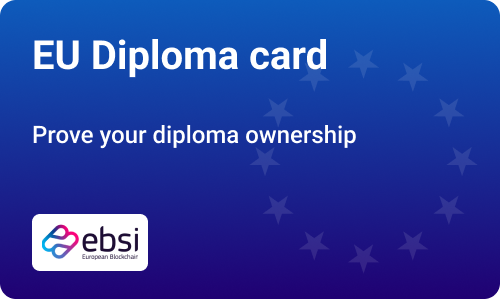
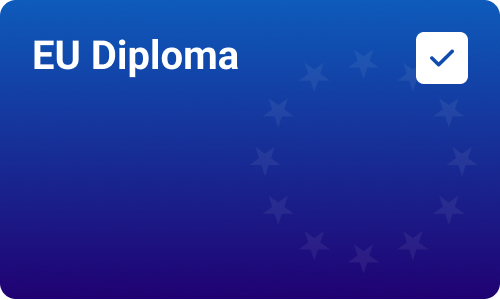
EBSI diploma card model and UI update #1349

diff --git a/lib/dashboard/home/tab_bar/credentials/models/eu_diploma_card/eu_diploma_card_model.dart b/lib/dashboard/home/tab_bar/credentials/models/eu_diploma_card/eu_diploma_card_model.dart
@@ -7,7 +7,15 @@ part 'eu_diploma_card_model.g.dart';
 @JsonSerializable(explicitToJson: true)
 class EUDiplomaCardModel extends CredentialSubjectModel {
   EUDiplomaCardModel({
-    this.expires,
+    this.expires = '',
+    this.awardingOpportunity,
+    this.dateOfBirth = '',
+    this.familyName = '',
+    this.givenNames = '',
+    this.gradingScheme,
+    this.identifier = '',
+    this.learningAchievement,
+    this.learningSpecification,
     super.id,
     super.type,
     super.issuedBy,
@@ -19,9 +27,120 @@ class EUDiplomaCardModel extends CredentialSubjectModel {
   factory EUDiplomaCardModel.fromJson(Map<String, dynamic> json) =>
       _$EUDiplomaCardModelFromJson(json);
 
-  @JsonKey(defaultValue: '')
-  final String? expires;
+  final String expires;
+  final AwardingOpportunity? awardingOpportunity;
+  final String dateOfBirth;
+  final String familyName;
+  final String givenNames;
+  final GradingScheme? gradingScheme;
+  final String identifier;
+  final LearningAchievement? learningAchievement;
+  final LearningSpecification? learningSpecification;
 
   @override
   Map<String, dynamic> toJson() => _$EUDiplomaCardModelToJson(this);
+}
+
+@JsonSerializable(explicitToJson: true)
+class AwardingOpportunity {
+  AwardingOpportunity({
+    this.awardingBody,
+    this.endedAtTime = '',
+    this.id = '',
+    this.identifier = '',
+    this.location = '',
+    this.startedAtTime = '',
+  });
+
+  factory AwardingOpportunity.fromJson(Map<String, dynamic> json) =>
+      _$AwardingOpportunityFromJson(json);
+
+  final AwardingBody? awardingBody;
+  final String endedAtTime;
+  final String id;
+  final String identifier;
+  final String location;
+  final String startedAtTime;
+
+  Map<String, dynamic> toJson() => _$AwardingOpportunityToJson(this);
+}
+
+@JsonSerializable(explicitToJson: true)
+class AwardingBody {
+  AwardingBody({
+    this.eidasLegalIdentifier = '',
+    this.homepage = '',
+    this.id = '',
+    this.preferredName = '',
+    this.registration = '',
+  });
+
+  factory AwardingBody.fromJson(Map<String, dynamic> json) =>
+      _$AwardingBodyFromJson(json);
+
+  final String eidasLegalIdentifier;
+  final String homepage;
+  final String id;
+  final String preferredName;
+  final String registration;
+
+  Map<String, dynamic> toJson() => _$AwardingBodyToJson(this);
+}
+
+@JsonSerializable(explicitToJson: true)
+class GradingScheme {
+  GradingScheme({
+    this.id = '',
+    this.title = '',
+  });
+
+  factory GradingScheme.fromJson(Map<String, dynamic> json) =>
+      _$GradingSchemeFromJson(json);
+
+  final String id;
+  final String title;
+
+  Map<String, dynamic> toJson() => _$GradingSchemeToJson(this);
+}
+
+@JsonSerializable(explicitToJson: true)
+class LearningAchievement {
+  LearningAchievement({
+    this.additionalNote,
+    this.description = '',
+    this.id = '',
+    this.title = '',
+  });
+
+  factory LearningAchievement.fromJson(Map<String, dynamic> json) =>
+      _$LearningAchievementFromJson(json);
+
+  final List<String>? additionalNote;
+  final String description;
+  final String id;
+  final String title;
+
+  Map<String, dynamic> toJson() => _$LearningAchievementToJson(this);
+}
+
+@JsonSerializable(explicitToJson: true)
+class LearningSpecification {
+  LearningSpecification({
+    this.ectsCreditPoints,
+    this.eqfLevel,
+    this.id = '',
+    this.iscedfCode,
+    this.nqfLevel,
+  });
+
+  factory LearningSpecification.fromJson(Map<String, dynamic> json) =>
+      _$LearningSpecificationFromJson(json);
+
+  int? ectsCreditPoints;
+  int? eqfLevel;
+  String id;
+  List<String>? iscedfCode;
+  List<String>? nqfLevel;
+
+  Map<String, dynamic> toJson() => _$LearningSpecificationToJson(this);
 }

diff --git a/lib/dashboard/home/tab_bar/credentials/widgets/credential_widget/eu_diploma_card_widget.dart b/lib/dashboard/home/tab_bar/credentials/widgets/credential_widget/eu_diploma_card_widget.dart
@@ -1,7 +1,5 @@
 import 'package:altme/app/app.dart';
 import 'package:altme/dashboard/dashboard.dart';
-import 'package:altme/l10n/l10n.dart';
-import 'package:altme/theme/theme.dart';
 import 'package:flutter/material.dart';
 
 class EUDiplomaCardWidget extends StatelessWidget {
@@ -14,70 +12,22 @@ class EUDiplomaCardWidget extends StatelessWidget {
 
   @override
   Widget build(BuildContext context) {
-    final l10n = context.l10n;
-    return CredentialImage(
-      image: ImageStrings.euDiplomaCard,
-      child: AspectRatio(
-        aspectRatio: Sizes.credentialAspectRatio,
-        child: CustomMultiChildLayout(
-          delegate: EUDiplomaCardWidgetDelegate(position: Offset.zero),
-          children: [
-            LayoutId(
-              id: 'issued-on',
-              child: FractionallySizedBox(
-                heightFactor: 0.10,
-                widthFactor: 0.4,
-                child: MyText(
-                  l10n.issuedOn,
-                  style: Theme.of(context).textTheme.identitiyBaseLightText,
-                ),
-              ),
-            ),
-            LayoutId(
-              id: 'issued-on-value',
-              child: FractionallySizedBox(
-                heightFactor: 0.10,
-                widthFactor: 0.4,
-                child: MyText(
-                  UiDate.formatDateForCredentialCard(
-                    credentialModel.credentialPreview.issuanceDate,
-                  ),
-                  style: Theme.of(context).textTheme.identitiyBaseBoldText,
-                ),
-              ),
-            ),
-          ],
-        ),
+    final euDiplomaCardModel = credentialModel
+        .credentialPreview.credentialSubjectModel as EUDiplomaCardModel;
+    return CredentialBaseWidget(
+      cardBackgroundImagePath: ImageStrings.euDiplomaCard,
+      // issuerName: credentialModel
+      //     .credentialPreview.credentialSubjectModel.issuedBy?.name,
+      issuerName:
+          euDiplomaCardModel.awardingOpportunity?.awardingBody?.preferredName ??
+              '',
+      value: euDiplomaCardModel.learningAchievement?.title ?? '',
+      issuanceDate: UiDate.formatDateForCredentialCard(
+        credentialModel.credentialPreview.issuanceDate,
       ),
+      expirationDate: credentialModel.expirationDate == null
+          ? '--'
+          : UiDate.formatDateForCredentialCard(credentialModel.expirationDate!),
     );
-  }
-}
-
-class EUDiplomaCardWidgetDelegate extends MultiChildLayoutDelegate {
-  EUDiplomaCardWidgetDelegate({this.position = Offset.zero});
-
-  final Offset position;
-
-  @override
-  void performLayout(Size size) {
-    if (hasChild('issued-on')) {
-      layoutChild('issued-on', BoxConstraints.loose(size));
-      positionChild(
-        'issued-on',
-        Offset(size.width * 0.5, size.height * 0.70),
-      );
-    }
-    if (hasChild('issued-on-value')) {
-      layoutChild('issued-on-value', BoxConstraints.loose(size));
-      positionChild(
-        'issued-on-value',
-        Offset(size.width * 0.5, size.height * 0.82),
-      );
-    }
-  }
-
-  @override
-  bool shouldRelayout(EUDiplomaCardWidgetDelegate oldDelegate) {
-    return oldDelegate.position != position;
   }
 }

diff --git a/lib/dashboard/home/tab_bar/credentials/widgets/credential_widget/credential_base_widget.dart b/lib/dashboard/home/tab_bar/credentials/widgets/credential_widget/credential_base_widget.dart
@@ -48,8 +48,8 @@ class CredentialBaseWidget extends StatelessWidget {
               LayoutId(
                 id: 'value',
                 child: FractionallySizedBox(
-                  widthFactor: 0.65,
-                  heightFactor: 0.12,
+                  widthFactor: 0.8,
+                  heightFactor: 0.2,
                   child: MyText(
                     value!,
                     style: Theme.of(context).textTheme.identitiyBaseBoldText,
